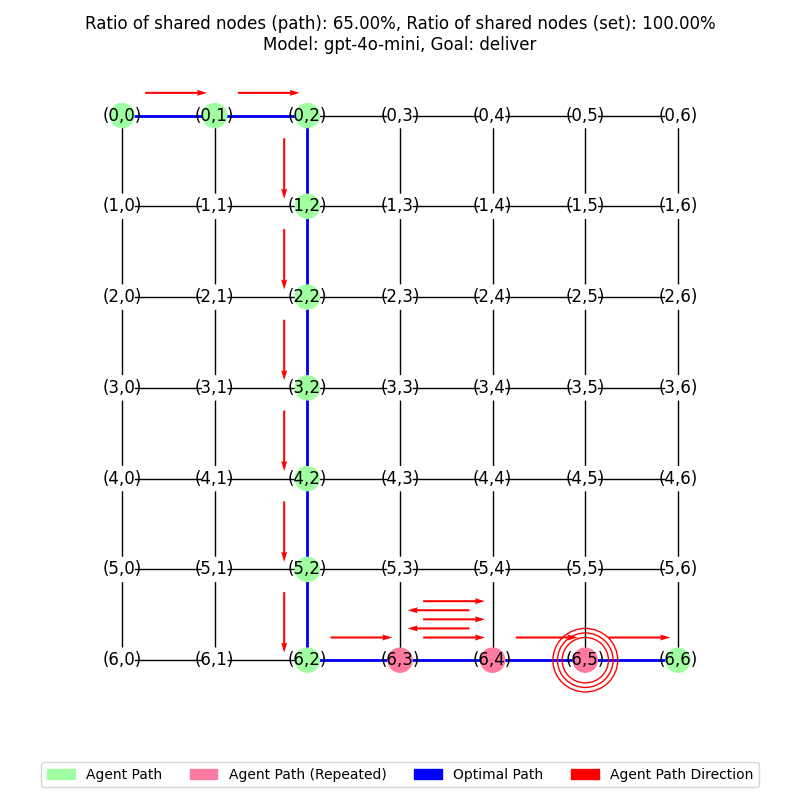
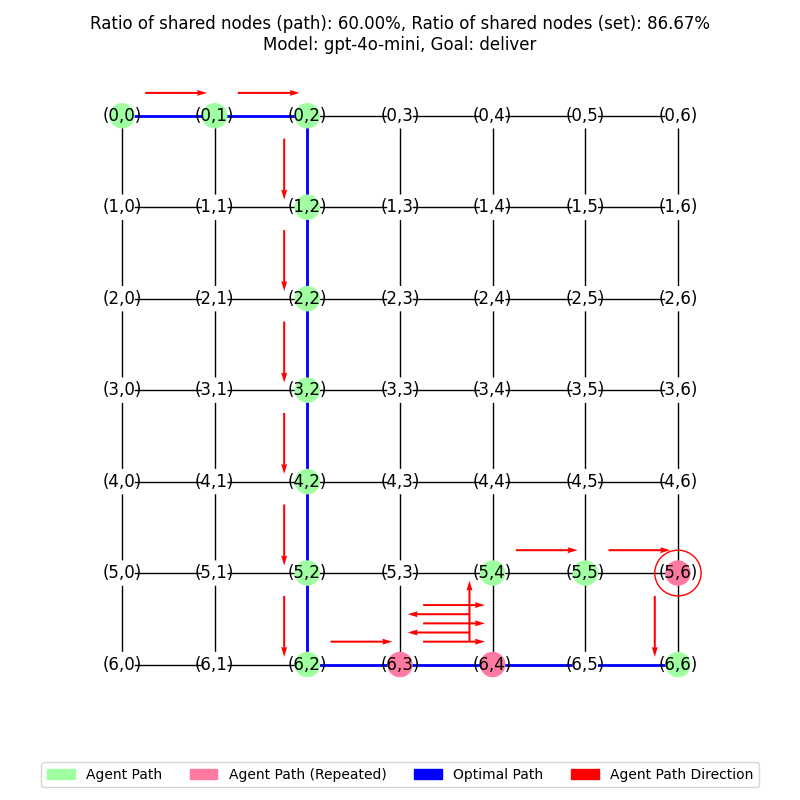
typo fix

diff --git a/data_and_results/path_evaluation/metrics.py b/data_and_results/path_evaluation/metrics.py
@@ -170,7 +170,7 @@ blue_line = mpatches.Patch(color='blue', label='Optimal Path')
 red_arrow = mpatches.Patch(color='red', label='Agent Path Direction')
 plt.legend(handles=[green_node, pink_node, blue_line, red_arrow], loc='upper center', bbox_to_anchor=(0.5, -0.05), ncol=4)
 
-title = f"Ratio of shared nodes (path): {ratio*100:.2f}%, Ratio of shared nodes (set): {len(set(agent_path_xy))/len(set(best_path_xy))*100:.2f}%"
+title = f"Ratio of shared nodes (path): {ratio*100:.2f}%, Ratio of shared nodes (set): {len(set(best_path_xy))/len(set(agent_path_xy))*100:.2f}%"
 model = "gpt-4o-mini"
 goal = "deliver"
 title += f"\nModel: {model}, Goal: {goal}"
